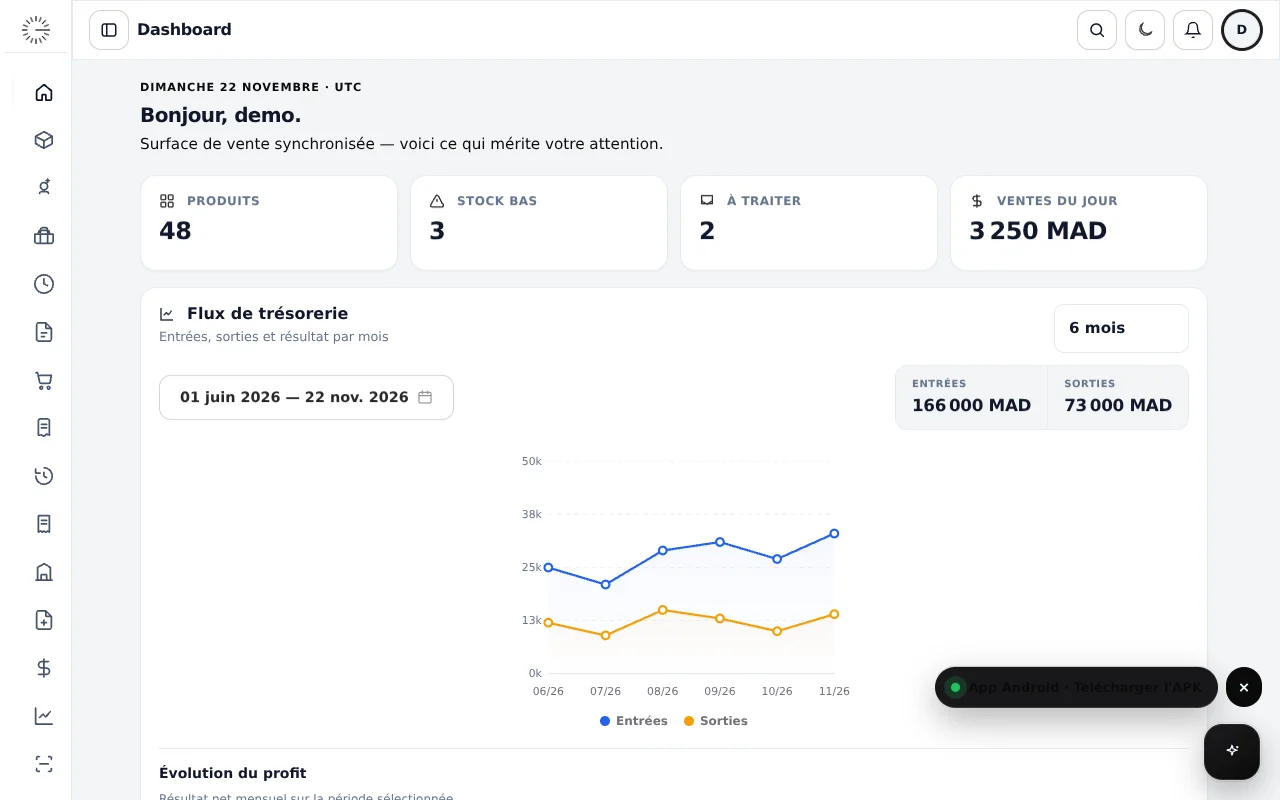
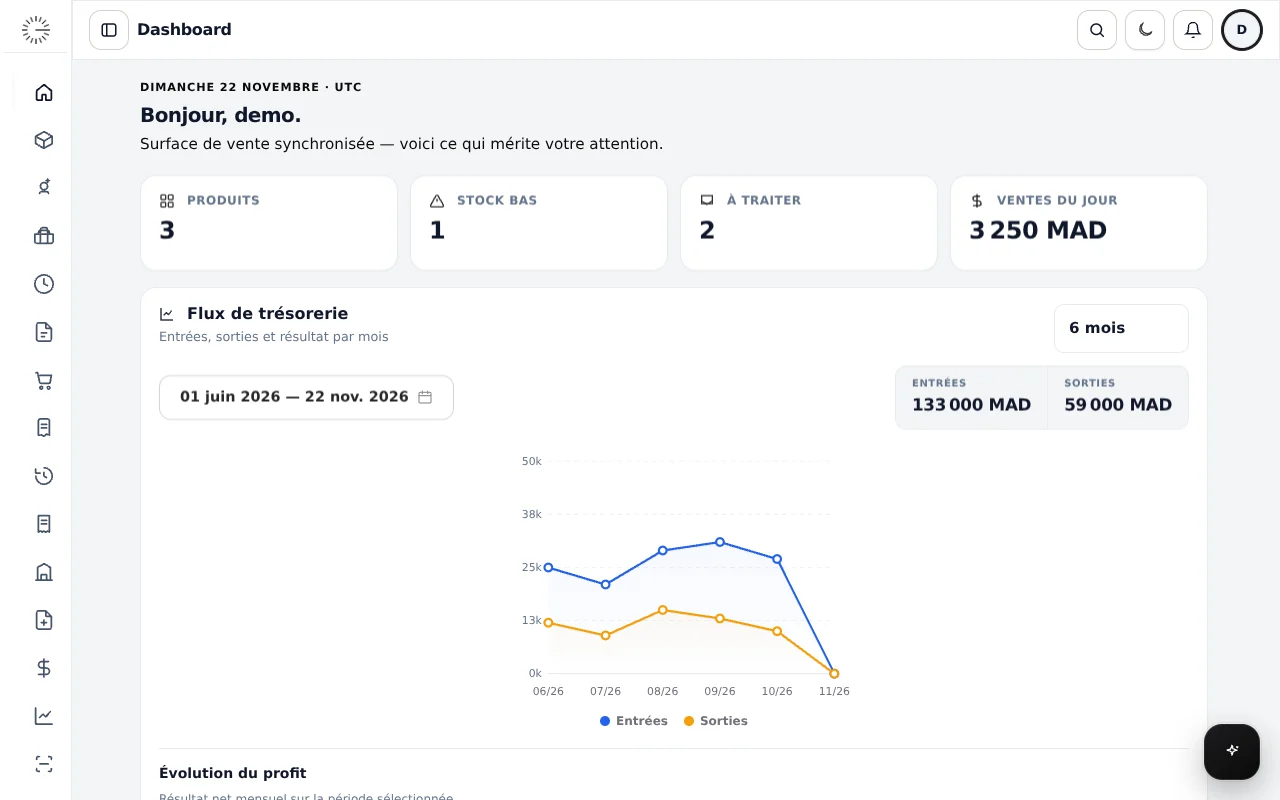
Refresh Atlas public and mobile showcase

diff --git a/src/App.css b/src/App.css
@@ -21199,3 +21199,55 @@ html body .public-settings-topbar {
   .pn-mobile-actions { display: flex; align-items: center; justify-content: space-between; gap: 12px; padding: 8px 14px 12px; }
   .pn-mobile-actions > a { white-space: nowrap; }
 }
+
+/* Atlas editorial product pages: quiet surfaces, product-first layouts. */
+.home-landing, .download-landing { --dl-bg: #10100f; --dl-band: #161614; --dl-card: #1d1c1a; --dl-line: #393630; }
+html[data-theme='light'] .home-landing, html[data-theme='light'] .download-landing { --dl-bg: #faf9f6; --dl-band: #f2f0eb; --dl-card: #fff; --dl-line: #e6e2da; }
+.home-landing { background: var(--dl-bg); color: var(--dl-ink); }
+.hm-bg-grid, .hm-bg-glow, .hm-canvas, .download-landing .dl-hero-bg, .download-landing .dl-hero-grid { display: none; }
+.hm-hero { padding-top: clamp(76px, 9vw, 130px); }
+.hm-hero h1 { font-size: clamp(2.7rem, 7.3vw, 6.1rem); line-height: 1.03; letter-spacing: -.055em; }
+.hm-grad { background: none; color: var(--dl-accent); }
+.hm-sub { max-width: 600px; }
+.hm-window { margin-top: 64px; padding: 8px; border-radius: 22px; background: var(--dl-card); border-color: var(--dl-line); box-shadow: 0 24px 70px #0002; }
+.hm-window-bar { background: transparent; border-color: var(--dl-line); }
+.hm-window img { border-radius: 0 0 14px 14px; }
+.hm-shot-caption { color: var(--dl-sub); font-size: 12px; margin: 14px 0 0; }
+.download-landing .dl-hero { min-height: 0; padding: clamp(80px, 9vw, 132px) 24px 70px; }
+.download-landing .dl-hero-layout { display: grid; grid-template-columns: minmax(0, 1fr) minmax(0, .95fr); align-items: center; gap: clamp(32px, 6vw, 90px); }
+.download-landing .dl-h1 { font-size: clamp(2.8rem, 5.4vw, 5rem); line-height: 1.04; letter-spacing: -.05em; }
+.download-landing .dl-h1 .dl-h1-soft { font-size: .7em; }
+.download-landing .dl-desc { line-height: 1.7; }
+.download-landing .dl-hero-art { margin: 0; min-width: 0; padding: 24px; border: 1px solid var(--dl-line); border-radius: 26px; background: var(--dl-band); text-align: center; }
+.download-landing .dl-hero-art img { display: block; width: 100%; height: auto; border-radius: 12px; box-shadow: 0 16px 36px #0003; }
+.download-landing .dl-hero-art--android img { max-width: 230px; margin: auto; }
+.download-landing .dl-hero-art figcaption { font-size: 11px; color: var(--dl-sub); margin-top: 15px; }
+.download-landing .dl-preview, .download-landing .dl-band { border-top: 1px solid var(--dl-line); padding-top: 80px; padding-bottom: 80px; }
+.download-landing .dl-preview-eyebrow { text-align: left; }
+.download-landing .dl-sec-title, .download-landing .dl-sec-sub { text-align: left; margin-left: 0; }
+.download-landing .dl-sec-title { letter-spacing: -.035em; font-size: clamp(2rem, 4vw, 3rem); }
+.download-landing .dl-preview-phones { display: grid; grid-template-columns: repeat(4, minmax(0, 1fr)); gap: 20px; align-items: start; }
+.download-landing .dl-preview-phones figure { width: 100%; }
+.download-landing .dl-preview-phones img { border-radius: 16px; }
+.download-landing .dl-stats { gap: 0; border-block: 1px solid var(--dl-line); }
+.download-landing .dl-stat { border: 0; border-radius: 0; background: transparent; padding: 22px 18px; }
+.download-landing .dl-stat + .dl-stat { border-left: 1px solid var(--dl-line); }
+.download-landing .dl-feat { border-radius: 12px; padding: 24px; }
+.download-landing .dl-cta-main { background: #c45c26 !important; color: #fff !important; box-shadow: none; }
+.download-landing .dl-cta-main:hover { background: #a94a1b !important; }
+@media (max-width: 700px) {
+  .hm-hero { padding-top: 72px; }
+  .hm-hero h1 { font-size: clamp(2.5rem, 10vw, 4rem); }
+  .hm-window { margin-top: 44px; padding: 5px; }
+  .download-landing .dl-hero { padding: 72px 20px 48px; }
+  .download-landing .dl-hero-layout { grid-template-columns: 1fr; gap: 36px; }
+  .download-landing .dl-hero-art { padding: 18px; }
+  .download-landing .dl-hero-art--android img { max-width: 190px; }
+  .download-landing .dl-preview, .download-landing .dl-band { padding: 56px 20px; }
+  .download-landing .dl-preview-phones { grid-template-columns: repeat(2, minmax(0, 1fr)); gap: 18px 12px; }
+  .download-landing .dl-stats { grid-template-columns: repeat(3, minmax(0, 1fr)); }
+  .download-landing .dl-stat { padding: 16px 8px; overflow-wrap: anywhere; }
+  .download-landing .dl-stat strong { font-size: 14px; }
+}
+.download-landing .dl-section-index { margin: 0 0 12px; color: var(--dl-accent); font-size: 12px; font-weight: 700; letter-spacing: .12em; }
+.download-landing .dl-section-index--spaced { margin-top: 64px; }

diff --git a/src/pages/Home.tsx b/src/pages/Home.tsx
@@ -7,13 +7,10 @@ import {
   PublicDownloadCta,
   GitHubStarButton,
   PublicSessionCta,
-  useThemeValue,
   type NavLink,
 } from '../components/PublicChrome';
 import { isLoggedIn } from '../auth';
 
-const HOME_LIGHT = '/shots/dashboard-light.png';
-const HOME_DARK = '/shots/dashboard-dark.png';
 
 const NAV: NavLink[] = [
   { href: '#features', label: 'Fonctionnalités' },
@@ -24,75 +21,6 @@ const NAV: NavLink[] = [
   { href: '/whats-new', label: 'Nouveautés' },
   { href: '/about', label: 'À propos' },
 ];
-
-/** Fond animé du hero (particules lumineuses dérivantes, façon Liner).
- * Respecte prefers-reduced-motion : une seule image fixe est alors peinte. */
-function HeroCanvas() {
-  const ref = useRef<HTMLCanvasElement | null>(null);
-  useEffect(() => {
-    const cv = ref.current;
-    if (!cv) return;
-    const ctx = cv.getContext('2d');
-    if (!ctx) return;
-    let raf = 0;
-    let w = 0;
-    let h = 0;
-    const dpr = Math.min(2, window.devicePixelRatio || 1);
-    const dots = Array.from({ length: 46 }, () => ({
-      x: Math.random(),
-      y: Math.random(),
-      r: 0.8 + Math.random() * 2.1,
-      p: Math.random() * Math.PI * 2,
-      v: 0.4 + Math.random() * 0.8,
-    }));
-    const resize = () => {
-      const r = cv.getBoundingClientRect();
-      w = cv.width = Math.max(1, Math.floor(r.width * dpr));
-      h = cv.height = Math.max(1, Math.floor(r.height * dpr));
-    };
-    const draw = (t: number) => {
-      ctx.clearRect(0, 0, w, h);
-      for (const d of dots) {
-        const x = (d.x + Math.sin(t * 0.00006 * d.v + d.p) * 0.03) * w;
-        const y = (d.y + Math.cos(t * 0.00005 * d.v + d.p) * 0.045) * h;
-        const rad = d.r * 7 * dpr;
-        const g = ctx.createRadialGradient(x, y, 0, x, y, rad);
-        g.addColorStop(0, 'rgba(228, 113, 58, .38)');
-        g.addColorStop(1, 'rgba(228, 113, 58, 0)');
-        ctx.fillStyle = g;
-        ctx.beginPath();
-        ctx.arc(x, y, rad, 0, Math.PI * 2);
-        ctx.fill();
-      }
-    };
-    const loop = (t: number) => {
-      draw(t);
-      raf = requestAnimationFrame(loop);
-    };
-    resize();
-    window.addEventListener('resize', resize);
-    const reduce =
-      typeof window.matchMedia === 'function' &&
-      window.matchMedia('(prefers-reduced-motion: reduce)').matches;
-    if (reduce) draw(1200);
-    else raf = requestAnimationFrame(loop);
-    const onVis = () => {
-      if (document.hidden) {
-        cancelAnimationFrame(raf);
-        raf = 0;
-      } else if (!reduce && !raf) {
-        raf = requestAnimationFrame(loop);
-      }
-    };
-    document.addEventListener('visibilitychange', onVis);
-    return () => {
-      cancelAnimationFrame(raf);
-      window.removeEventListener('resize', resize);
-      document.removeEventListener('visibilitychange', onVis);
-    };
-  }, []);
-  return <canvas ref={ref} className="hm-canvas" aria-hidden="true" />;
-}
 
 /** Révélation douce au scroll (IntersectionObserver, une seule fois). */
 function useRiseObserver() {
@@ -241,24 +169,15 @@ export default function Home() {
       if (raf) cancelAnimationFrame(raf);
     };
   }, []);
-  const theme = useThemeValue();
   useRiseObserver();
-  const shot = theme === 'light' ? HOME_LIGHT : HOME_DARK;
 
   return (
     <div className="home-landing">
-      <div className="hm-bg" aria-hidden="true">
-        <div className="hm-bg-grid" />
-        <div className="hm-bg-glow hm-bg-glow-a" />
-        <div className="hm-bg-glow hm-bg-glow-b" />
-      </div>
-
       <PublicNav links={NAV} cta={<PublicSessionCta />} classic />
 
       <main className="hm-main">
         {/* ---------------- Hero ---------------- */}
         <section className="hm-hero">
-          <HeroCanvas />
           <p className="hm-eyebrow">ATLAS · GESTION COMMERCIALE OPEN SOURCE</p>
           <h1>
             Tout votre commerce,
@@ -286,8 +205,9 @@ export default function Home() {
               <span /><span /><span />
               <em>stock.afmarbre.com — Tableau de bord</em>
             </div>
-            <img src={shot} alt="Le tableau de bord Atlas Commerce" loading="lazy" />
+            <img src="/shots/desktop-demo.webp" alt="Tableau de bord web Atlas Commerce avec des données fictives" width="1280" height="800" />
           </div>
+          <p className="hm-shot-caption">Interface web sur ordinateur · données fictives de démonstration</p>
         </section>
 
         {/* ---------------- Dossier : les modules sortent du folder Atlas ---------------- */}

diff --git a/src/components/DownloadPreview.tsx b/src/components/DownloadPreview.tsx
@@ -1,15 +1,19 @@
-/** Static, anonymized illustrations; no account data or live API is loaded. */
+/** Local light-theme captures with anonymized or fictional data. */
 export default function DownloadPreview({ platform }: { platform: 'android' | 'desktop' }) {
   return <section className={`dl-preview dl-preview--${platform}`} aria-labelledby={`dl-preview-${platform}`}>
     <div className="dl-container">
-      <p className="dl-preview-eyebrow">EN UN COUP D’ŒIL</p>
+      <p className="dl-preview-eyebrow">01 / EN UN COUP D’ŒIL</p>
       <h2 className="dl-sec-title" id={`dl-preview-${platform}`}>{platform === 'android' ? 'Atlas sur le terrain' : 'Votre espace de travail'}</h2>
-      <p className="dl-sec-sub">{platform === 'android' ? 'Scannez un article et consultez votre activité depuis votre téléphone.' : 'Découvrez l’interface web sur ordinateur, avec des données fictives.'}</p>
-      {platform === 'android' ? <div className="dl-preview-phones">
-        <figure><img src="/shots/android-scan-demo.webp" width="516" height="785" loading="lazy" alt="Application Android : écran de scan avec caméra en pause" /><figcaption>Scanner un article</figcaption></figure>
-        <figure><img src="/shots/android-balance-demo.webp" width="538" height="799" loading="lazy" alt="Application Android : aperçu des transactions et soldes" /><figcaption>Consulter la balance</figcaption></figure>
-      </div> : <figure className="dl-preview-desktop"><img src="/shots/desktop-demo.webp" width="1280" height="800" loading="lazy" alt="Tableau de bord sur ordinateur avec des données de démonstration" /><figcaption>Interface web sur ordinateur · données fictives de démonstration</figcaption></figure>}
-      <p className="dl-preview-note">Aperçus en thème clair. Les écrans peuvent évoluer selon la version et les permissions.</p>
+      <p className="dl-sec-sub">{platform === 'android' ? 'Du scan au suivi de l’activité, retrouvez vos outils sur téléphone.' : 'Découvrez l’interface web sur ordinateur, avec des données fictives.'}</p>
+      {platform === 'android' ? <>
+        <div className="dl-preview-phones">
+          <figure><img src="/shots/android-scan-demo.webp" width="516" height="785" loading="lazy" alt="Application Android : écran de scan avec caméra en pause" /><figcaption>Android natif · Scanner</figcaption></figure>
+          <figure><img src="/shots/android-balance-demo.webp" width="538" height="799" loading="lazy" alt="Application Android : aperçu des transactions et soldes" /><figcaption>Android natif · Balance</figcaption></figure>
+          <figure><img src="/shots/phone-home-demo.webp" width="390" height="844" loading="lazy" alt="Interface web mobile : tableau de bord avec données fictives" /><figcaption>Web mobile · Tableau de bord</figcaption></figure>
+          <figure><img src="/shots/phone-products-demo.webp" width="390" height="844" loading="lazy" alt="Interface web mobile : catalogue de produits fictifs" /><figcaption>Web mobile · Produits</figcaption></figure>
+        </div>
+      </> : <figure className="dl-preview-desktop"><img src="/shots/desktop-demo.webp" width="1280" height="800" loading="lazy" alt="Tableau de bord web sur ordinateur avec des données de démonstration" /><figcaption>Interface web sur ordinateur · données fictives de démonstration</figcaption></figure>}
+      <p className="dl-preview-note">Aperçus en thème clair : captures Android anonymisées et interface web avec données fictives. Les écrans peuvent évoluer selon la version et les permissions.</p>
     </div>
   </section>;
 }

diff --git a/src/pages/Desktop.tsx b/src/pages/Desktop.tsx
@@ -195,7 +195,7 @@ export default function Desktop() {
       <section className="dl-hero">
         <div className="dl-hero-bg" aria-hidden />
         <div className="dl-hero-grid" aria-hidden />
-        <div className="dl-container">
+        <div className="dl-container dl-hero-layout">
           <div className="dl-hero-content">
             <p className="dl-eyebrow">Application bureau officielle</p>
             <h1 className="dl-h1">
@@ -215,6 +215,8 @@ export default function Desktop() {
                 </a>
               ) : state === 'error' ? (
                 <span className="dl-cta-main dl-cta-wait" aria-disabled="true">Releases injoignables</span>
+              ) : state === 'ok' ? (
+                <span className="dl-cta-main dl-cta-wait" aria-disabled="true">Aucun binaire pour {OS_LABEL[os]}</span>
               ) : (
                 <span className="dl-cta-main dl-cta-wait" aria-disabled="true">Chargement…</span>
               )}
@@ -237,6 +239,7 @@ export default function Desktop() {
               depuis cette page ou le dépôt officiel.
             </p>
           </div>
+          <figure className="dl-hero-art dl-hero-art--desktop"><img src="/shots/desktop-demo.webp" alt="Tableau de bord web sur ordinateur avec données fictives" /><figcaption>Interface web sur ordinateur · données fictives</figcaption></figure>
         </div>
       </section>
 
@@ -259,6 +262,7 @@ export default function Desktop() {
             </div>
           </div>
 
+          <p className="dl-section-index">02 / FONCTIONNALITÉS</p>
           <h2 className="dl-sec-title">Pensée pour le comptoir</h2>
           <p className="dl-sec-sub">Une app de poste fixe, rapide et sobre, branchée sur votre compte Atlas.</p>
           <div className="dl-feats">
@@ -270,7 +274,8 @@ export default function Desktop() {
             ))}
           </div>
 
-          <h2 className="dl-sec-title" style={{ marginTop: 56 }}>Fichiers de la dernière version</h2>
+          <p className="dl-section-index dl-section-index--spaced">03 / TÉLÉCHARGEMENTS</p>
+          <h2 className="dl-sec-title">Fichiers de la dernière version</h2>
           <p className="dl-sec-sub">Choisissez selon votre système — checksums et .zsync disponibles sur la release.</p>
           <div className="dl-rel-list">
             {(latest?.assets || [])

diff --git a/src/pages/Download.tsx b/src/pages/Download.tsx
@@ -185,7 +185,7 @@ export default function Download() {
       <section className="dl-hero">
         <div className="dl-hero-bg" aria-hidden />
         <div className="dl-hero-grid" aria-hidden />
-        <div className="dl-container">
+        <div className="dl-container dl-hero-layout">
           <div className="dl-hero-content">
             <p className="dl-eyebrow">Appli Android officielle</p>
             <h1 className="dl-h1">
@@ -213,9 +213,10 @@ export default function Download() {
             </div>
             <p className="dl-note">
               <span className="dl-note-dot" aria-hidden />
-              Disponible maintenant — sans compte pour cette page
+              {state === 'ok' ? 'APK officielle · aucune connexion nécessaire pour télécharger' : state === 'loading' ? 'Vérification de la version officielle' : 'Consultez le dépôt pour les versions disponibles'}
             </p>
           </div>
+          <figure className="dl-hero-art dl-hero-art--android"><img src="/shots/android-scan-demo.webp" alt="Écran de scan de l’application Android" /><figcaption>Application Android · capture anonymisée</figcaption></figure>
         </div>
       </section>
 
@@ -253,7 +254,8 @@ export default function Download() {
             ))}
           </div>
 
-          <h2 className="dl-sec-title" style={{ marginTop: 56 }}>Notes de version</h2>
+          <p className="dl-section-index dl-section-index--spaced">03 / MISES À JOUR</p>
+          <h2 className="dl-sec-title">Notes de version</h2>
           <p className="dl-sec-sub">
             {relBody
               ? 'Dernière publication du dépôt Android sur GitHub Releases.'
@@ -327,7 +329,7 @@ export default function Download() {
                 Télécharger l&apos;APK
               </a>
             ) : (
-              <span className="dl-cta-main dl-cta-wait" aria-disabled="true">Manifeste injoignable</span>
+              <span className="dl-cta-main dl-cta-wait" aria-disabled="true">{state === 'loading' ? 'Lecture du manifeste…' : 'Manifeste injoignable'}</span>
             )}
             <Link className="dl-cta-ghost" to="/whats-new">Nouveautés</Link>
           </div>

diff --git a/src/__tests__/public-download-releases.test.ts b/src/__tests__/public-download-releases.test.ts
@@ -1,0 +1,31 @@
+// @vitest-environment happy-dom
+import { act, createElement } from 'react';
+import { createRoot } from 'react-dom/client';
+import { MemoryRouter } from 'react-router-dom';
+import { afterEach, expect, it, vi } from 'vitest';
+import Download from '../pages/Download';
+import Desktop from '../pages/Desktop';
+
+(globalThis as any).IS_REACT_ACT_ENVIRONMENT = true;
+let host: HTMLDivElement;
+let root: ReturnType<typeof createRoot>;
+afterEach(async () => { if (root) await act(async () => root.unmount()); host?.remove(); vi.unstubAllGlobals(); });
+
+async function render(component: typeof Download) {
+  host = document.createElement('div'); document.body.appendChild(host); root = createRoot(host);
+  await act(async () => { root.render(createElement(MemoryRouter, { children: createElement(component) })); await new Promise(resolve => setTimeout(resolve, 20)); });
+}
+
+it('uses the Android manifest download without contacting the fallback CDN', async () => {
+  const fetchMock = vi.fn(async (url: string) => ({ ok: true, json: async () => url.includes('android-update') ? { manifest: { apkUrl: 'https://example.com/atlas.apk', versionName: '1.2' } } : [] }));
+  vi.stubGlobal('fetch', fetchMock);
+  await render(Download);
+  expect(host.querySelector<HTMLAnchorElement>('.dl-cta-main')?.href).toBe('https://example.com/atlas.apk');
+  expect(fetchMock.mock.calls.some(([url]) => url.includes('cdn1.afmarbre.com'))).toBe(false);
+});
+
+it('does not show a perpetual loading state when the selected desktop platform has no asset', async () => {
+  vi.stubGlobal('fetch', vi.fn(async () => ({ ok: true, json: async () => [{ tag_name: 'v1', assets: [] }] })));
+  await render(Desktop);
+  expect(host.querySelector('.dl-hero .dl-cta-wait')?.textContent).toContain('Aucun binaire');
+});

diff --git a/src/mobile/phone.css b/src/mobile/phone.css
@@ -3183,3 +3183,17 @@ html.phone-shell body .phone-root button.ph-agent-send { border: 0 !important; b
   .ph-sale-empty p { margin: 4px 0 8px; }
 }
 html.phone-shell :is(.ph-sale-fields, .ph-sale-catalog) :is(input, textarea) { font-weight: 400 !important; }
+
+/* A calmer, more legible overview at phone widths. */
+.ph-home-native { gap: 14px; }
+.ph-home-native .ph-hero { padding: 20px; border-radius: 20px; }
+.ph-home-native .ph-tile { border-radius: 16px; padding: 14px; }
+.ph-home-native .ph-tile-lbl { white-space: normal; line-height: 1.3; }
+.ph-home-native .ph-tile-val { white-space: normal; overflow: visible; line-height: 1.2; }
+.ph-home-native .ph-panel { border-radius: 18px; }
+.ph-home-native .ph-btn { min-width: 0; }
+.ph-home-native :is(button, select):focus-visible { outline: 3px solid #c45c26; outline-offset: 3px; }
+@media (max-width: 340px) {
+  .ph-home-native .ph-actions-row { flex-direction: column; }
+  .ph-home-native .ph-home-finance-values span { flex-wrap: wrap; }
+}

diff --git a/src/__tests__/public-download-nav.test.ts b/src/__tests__/public-download-nav.test.ts
@@ -26,7 +26,9 @@ it('opens its accessible menu and closes it on Escape or outside interaction', a
 
 it('uses separate, labelled Android and computer previews', async () => {
   await act(async () => root.render(createElement(DownloadPreview, { platform: 'android' })));
-  expect(host.querySelectorAll('img')).toHaveLength(2);
+  expect(host.querySelectorAll('img')).toHaveLength(4);
+  expect(host.textContent).toContain('Android natif');
+  expect(host.textContent).toContain('Web mobile');
   expect(host.textContent).toContain('Atlas sur le terrain');
   await act(async () => root.render(createElement(DownloadPreview, { platform: 'desktop' })));
   expect(host.querySelectorAll('img')).toHaveLength(1);

diff --git a/README.md b/README.md
@@ -36,11 +36,15 @@ Aperçus en thème clair : données et identité de démonstration. Les écrans 
 | --- | --- |
 | ![Écran de scan Android](public/shots/android-scan-demo.webp) | ![Écran de balance Android](public/shots/android-balance-demo.webp) |
 
+| Web mobile — accueil | Web mobile — produits |
+| --- | --- |
+| ![Accueil web mobile avec données fictives](public/shots/phone-home-demo.webp) | ![Catalogue web mobile avec données fictives](public/shots/phone-products-demo.webp) |
+
 ### Version ordinateur
 
 ![Tableau de bord ordinateur avec données fictives](public/shots/desktop-demo.webp)
 
-La capture ordinateur est produite dans Chromium avec des réponses API fictives ; les captures Android fournies ont été anonymisées. Aucune connexion à une base de production n'a servi à la capture.
+Les captures web mobile et ordinateur sont produites dans Chromium avec des réponses API fictives ; les captures Android fournies ont été anonymisées. Aucune connexion à une base de production n'a servi à la capture. Pour reproduire les captures web, démarrer `npx vite --config scripts/vite-capture.config.mjs --port 5173`, puis lancer `node scripts/capture-demo-shots.mjs` : les appels API et réseaux externes sont bloqués et remplacés par des données locales fictives.
 
 ## Intégration Android — 0.8.1
 
